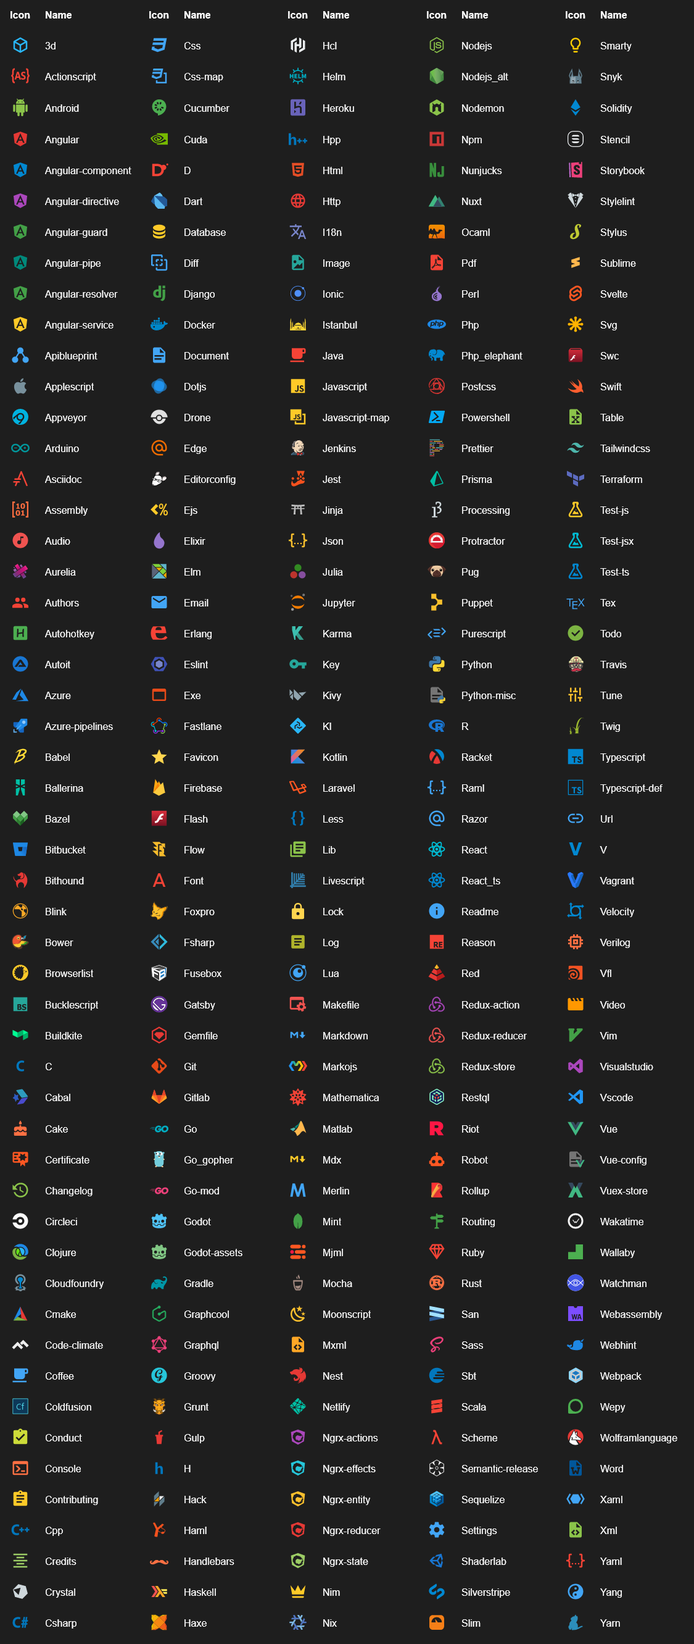
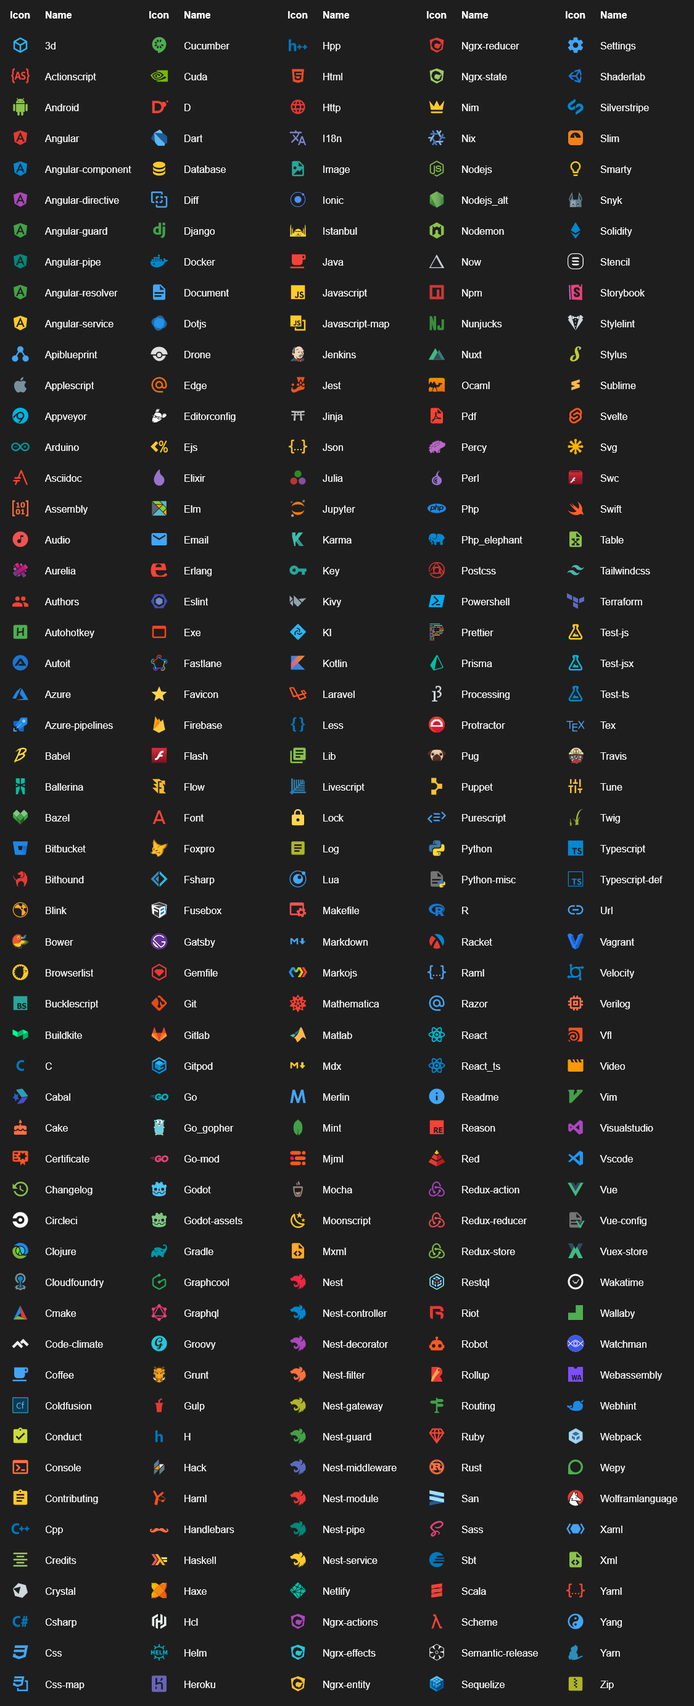
Release 3.9.0

diff --git a/src/scripts/preview/index.ts b/src/scripts/preview/index.ts
@@ -25,5 +25,5 @@ const folderThemes = filterDuplicates(folderIcons.map(theme => {
     return [].concat(...folders);
 }).reduce((a, b) => a.concat(b))).map(i => ({ iconName: i, label: i.replace('folder-', '') }));
 
-generatePreview('fileIcons', basicFileIcons, 5, ['powerpoint', 'virtual']);
-generatePreview('folderIcons', folderThemes, 5, ['folder', 'folder-meta', 'folder-wakatime']);
+generatePreview('fileIcons', basicFileIcons, 5, ['powerpoint', 'virtual', 'todo', 'word']);
+generatePreview('folderIcons', folderThemes, 5, ['']);

diff --git a/README.md b/README.md
@@ -113,23 +113,17 @@ Press `Ctrl-Shift-P` to open the command palette and type `Material Icons`.
 
 <img src="https://raw.githubusercontent.com/PKief/vscode-material-icon-theme/master/images/commandPalette.png" alt="commands" width="80%">
 
-- **Activate Icon Theme**: Activate the icon theme.
-
-- **Change Folder Color**: Change the color of the folder icons.
-
-- **Change Folder Theme**: Change the design of the folder icons.
-
-- **Change Opacity**: Change the opacity of the icons.
-
-- **Change Saturation**: Change the saturation value of the icons.
-
-- **Configure Icon Packs**: Select an icon pack that enables additional icons (e.g. for Angular, React, Ngrx).
-
-- **Hide Folder Arrows**: Hides the arrows next to the folder icons.
-
-- **Restore Default Configuration**: Reset the default configurations of the icon theme.
-
-- **Toggle Grayscale**: Sets the saturation of the icons to zero, so that they are grayscale.
+| Command                             | Description                                                                             |
+| ----------------------------------- | --------------------------------------------------------------------------------------- |
+| **Activate Icon Theme**             | Activate the icon theme.                                                                |
+| **Change Folder Color**             | Change the color of the folder icons.                                                   |
+| **Change Folder Theme**             | Change the design of the folder icons.                                                  |
+| **Change Opacity**                  | Change the opacity of the icons.                                                        |
+| **Change Saturation**               | Change the saturation value of the icons.                                               |
+| **Configure Icon Packs**            | Select an icon pack that enables additional icons (e.g. for Angular, React, Ngrx).      |
+| **Hide Folder Arrows**              | Hides the arrows next to the folder icons.                                              |
+| **Restore Default Configuration**   | Reset the default configurations of the icon theme.                                     |
+| **Toggle Grayscale**                | Sets the saturation of the icons to zero, so that they are grayscale.                   |
 
 ## Icon sources
 
@@ -139,7 +133,7 @@ Press `Ctrl-Shift-P` to open the command palette and type `Material Icons`.
 ## Contributors
 
 [//]: #contributors (start)
-<a href="https://github.com/PKief" title="PKief"><img src="https://avatars2.githubusercontent.com/u/12248527?v=4" width="40px" height="40px" alt="PKief"/></a>&nbsp;<a href="https://github.com/AdrieanKhisbe" title="AdrieanKhisbe"><img src="https://avatars1.githubusercontent.com/u/2601132?v=4" width="40px" height="40px" alt="AdrieanKhisbe"/></a>&nbsp;<a href="https://github.com/dudeofawesome" title="dudeofawesome"><img src="https://avatars0.githubusercontent.com/u/1683595?v=4" width="40px" height="40px" alt="dudeofawesome"/></a>&nbsp;<a href="https://github.com/wopian" title="wopian"><img src="https://avatars0.githubusercontent.com/u/3440094?v=4" width="40px" height="40px" alt="wopian"/></a>&nbsp;<a href="https://github.com/Bakosa666" title="Bakosa666"><img src="https://avatars3.githubusercontent.com/u/38684615?v=4" width="40px" height="40px" alt="Bakosa666"/></a>&nbsp;<a href="https://github.com/chrsmutti" title="chrsmutti"><img src="https://avatars1.githubusercontent.com/u/34144667?v=4" width="40px" height="40px" alt="chrsmutti"/></a>&nbsp;<a href="https://github.com/diego3g" title="diego3g"><img src="https://avatars2.githubusercontent.com/u/2254731?v=4" width="40px" height="40px" alt="diego3g"/></a>&nbsp;<a href="https://github.com/felipe-fg" title="felipe-fg"><img src="https://avatars2.githubusercontent.com/u/32036831?v=4" width="40px" height="40px" alt="felipe-fg"/></a>&nbsp;<a href="https://github.com/omento" title="omento"><img src="https://avatars3.githubusercontent.com/u/14795448?v=4" width="40px" height="40px" alt="omento"/></a>&nbsp;<a href="https://github.com/jBugman" title="jBugman"><img src="https://avatars1.githubusercontent.com/u/891785?v=4" width="40px" height="40px" alt="jBugman"/></a>&nbsp;<a href="https://github.com/iFaxity" title="iFaxity"><img src="https://avatars3.githubusercontent.com/u/9090703?v=4" width="40px" height="40px" alt="iFaxity"/></a>&nbsp;<a href="https://github.com/melMass" title="melMass"><img src="https://avatars3.githubusercontent.com/u/7041726?v=4" width="40px" height="40px" alt="melMass"/></a>&nbsp;<a href="https://github.com/Mrgove10" title="Mrgove10"><img src="https://avatars0.githubusercontent.com/u/25491408?v=4" width="40px" height="40px" alt="Mrgove10"/></a>&nbsp;<a href="https://github.com/cezarsa" title="cezarsa"><img src="https://avatars1.githubusercontent.com/u/11041?v=4" width="40px" height="40px" alt="cezarsa"/></a>&nbsp;<a href="https://github.com/KristophUK" title="KristophUK"><img src="https://avatars2.githubusercontent.com/u/6653181?v=4" width="40px" height="40px" alt="KristophUK"/></a>&nbsp;<a href="https://github.com/jediyozh" title="jediyozh"><img src="https://avatars2.githubusercontent.com/u/31045769?v=4" width="40px" height="40px" alt="jediyozh"/></a>&nbsp;<a href="https://github.com/fahmiirsyadk" title="fahmiirsyadk"><img src="https://avatars0.githubusercontent.com/u/17546686?v=4" width="40px" height="40px" alt="fahmiirsyadk"/></a>&nbsp;<a href="https://github.com/iDaN5x" title="iDaN5x"><img src="https://avatars3.githubusercontent.com/u/3427523?v=4" width="40px" height="40px" alt="iDaN5x"/></a>&nbsp;<a href="https://github.com/jtiala" title="jtiala"><img src="https://avatars2.githubusercontent.com/u/1576782?v=4" width="40px" height="40px" alt="jtiala"/></a>&nbsp;<a href="https://github.com/mvochoa" title="mvochoa"><img src="https://avatars2.githubusercontent.com/u/7919838?v=4" width="40px" height="40px" alt="mvochoa"/></a>&nbsp;<a href="https://github.com/martin-sweeny" title="martin-sweeny"><img src="https://avatars1.githubusercontent.com/u/3329959?v=4" width="40px" height="40px" alt="martin-sweeny"/></a>&nbsp;<a href="https://github.com/teototaro" title="teototaro"><img src="https://avatars3.githubusercontent.com/u/6552833?v=4" width="40px" height="40px" alt="teototaro"/></a>&nbsp;<a href="https://github.com/niksudan" title="niksudan"><img src="https://avatars1.githubusercontent.com/u/6004491?v=4" width="40px" height="40px" alt="niksudan"/></a>&nbsp;<a href="https://github.com/yuric18" title="yuric18"><img src="https://avatars3.githubusercontent.com/u/18277197?v=4" width="40px" height="40px" alt="yuric18"/></a>&nbsp;<a href="https://github.com/denisbalyko" title="denisbalyko"><img src="https://avatars0.githubusercontent.com/u/638190?v=4" width="40px" height="40px" alt="denisbalyko"/></a>&nbsp;<a href="https://github.com/dotiful" title="dotiful"><img src="https://avatars1.githubusercontent.com/u/25269527?v=4" width="40px" height="40px" alt="dotiful"/></a>&nbsp;<a href="https://github.com/ycrepeau" title="ycrepeau"><img src="https://avatars2.githubusercontent.com/u/6821466?v=4" width="40px" height="40px" alt="ycrepeau"/></a>&nbsp;<a href="https://github.com/aashutoshrathi" title="aashutoshrathi"><img src="https://avatars2.githubusercontent.com/u/21199234?v=4" width="40px" height="40px" alt="aashutoshrathi"/></a>&nbsp;<a href="https://github.com/dabrowski-adam" title="dabrowski-adam"><img src="https://avatars0.githubusercontent.com/u/6993966?v=4" width="40px" height="40px" alt="dabrowski-adam"/></a>&nbsp;<a href="https://github.com/alefesouza" title="alefesouza"><img src="https://avatars2.githubusercontent.com/u/1693223?v=4" width="40px" height="40px" alt="alefesouza"/></a>&nbsp;<a href="https://github.com/baraalex" title="baraalex"><img src="https://avatars2.githubusercontent.com/u/6618800?v=4" width="40px" height="40px" alt="baraalex"/></a>&nbsp;<a href="https://github.com/AlexaraWu" title="AlexaraWu"><img src="https://avatars0.githubusercontent.com/u/15205102?v=4" width="40px" height="40px" alt="AlexaraWu"/></a>&nbsp;<a href="https://github.com/tothandras" title="tothandras"><img src="https://avatars0.githubusercontent.com/u/4157749?v=4" width="40px" height="40px" alt="tothandras"/></a>&nbsp;<a href="https://github.com/arpadbarta" title="arpadbarta"><img src="https://avatars3.githubusercontent.com/u/6329203?v=4" width="40px" height="40px" alt="arpadbarta"/></a>&nbsp;<a href="https://github.com/frederick036" title="frederick036"><img src="https://avatars2.githubusercontent.com/u/1129770?v=4" width="40px" height="40px" alt="frederick036"/></a>&nbsp;<a href="https://github.com/bernardop" title="bernardop"><img src="https://avatars1.githubusercontent.com/u/28455?v=4" width="40px" height="40px" alt="bernardop"/></a>&nbsp;<a href="https://github.com/bcanseco" title="bcanseco"><img src="https://avatars3.githubusercontent.com/u/18430599?v=4" width="40px" height="40px" alt="bcanseco"/></a>&nbsp;<a href="https://github.com/bradlc" title="bradlc"><img src="https://avatars0.githubusercontent.com/u/2615508?v=4" width="40px" height="40px" alt="bradlc"/></a>&nbsp;<a href="https://github.com/brennongs" title="brennongs"><img src="https://avatars3.githubusercontent.com/u/24623425?v=4" width="40px" height="40px" alt="brennongs"/></a>&nbsp;<a href="https://github.com/Logerfo" title="Logerfo"><img src="https://avatars2.githubusercontent.com/u/19306384?v=4" width="40px" height="40px" alt="Logerfo"/></a>&nbsp;<a href="https://github.com/TheCloudSaver" title="TheCloudSaver"><img src="https://avatars3.githubusercontent.com/u/39653530?v=4" width="40px" height="40px" alt="TheCloudSaver"/></a>&nbsp;<a href="https://github.com/danielbankhead" title="danielbankhead"><img src="https://avatars3.githubusercontent.com/u/10792787?v=4" width="40px" height="40px" alt="danielbankhead"/></a>&nbsp;<a href="https://github.com/oodavid" title="oodavid"><img src="https://avatars3.githubusercontent.com/u/46879?v=4" width="40px" height="40px" alt="oodavid"/></a>&nbsp;<a href="https://github.com/erikphansen" title="erikphansen"><img src="https://avatars1.githubusercontent.com/u/20728956?v=4" width="40px" height="40px" alt="erikphansen"/></a>&nbsp;<a href="https://github.com/etiennetalbot" title="etiennetalbot"><img src="https://avatars3.githubusercontent.com/u/2954511?v=4" width="40px" height="40px" alt="etiennetalbot"/></a>&nbsp;<a href="https://github.com/ExE-Boss" title="ExE-Boss"><img src="https://avatars0.githubusercontent.com/u/3889017?v=4" width="40px" height="40px" alt="ExE-Boss"/></a>&nbsp;<a href="https://github.com/justalemon" title="justalemon"><img src="https://avatars1.githubusercontent.com/u/11861253?v=4" width="40px" height="40px" alt="justalemon"/></a>&nbsp;<a href="https://github.com/JakubKoralewski" title="JakubKoralewski"><img src="https://avatars0.githubusercontent.com/u/43069023?v=4" width="40px" height="40px" alt="JakubKoralewski"/></a>&nbsp;<a href="https://github.com/wersimmon" title="wersimmon"><img src="https://avatars1.githubusercontent.com/u/185822?v=4" width="40px" height="40px" alt="wersimmon"/></a>&nbsp;<a href="https://github.com/JotaroS" title="JotaroS"><img src="https://avatars2.githubusercontent.com/u/9479730?v=4" width="40px" height="40px" alt="JotaroS"/></a>&nbsp;<a href="https://github.com/RunningCoderLee" title="RunningCoderLee"><img src="https://avatars3.githubusercontent.com/u/13218863?v=4" width="40px" height="40px" alt="RunningCoderLee"/></a>&nbsp;<a href="https://github.com/Krzysztof-Cieslak" title="Krzysztof-Cieslak"><img src="https://avatars1.githubusercontent.com/u/5427083?v=4" width="40px" height="40px" alt="Krzysztof-Cieslak"/></a>&nbsp;<a href="https://github.com/kkemple" title="kkemple"><img src="https://avatars3.githubusercontent.com/u/3629876?v=4" width="40px" height="40px" alt="kkemple"/></a>&nbsp;<a href="https://github.com/leohxj" title="leohxj"><img src="https://avatars3.githubusercontent.com/u/1506900?v=4" width="40px" height="40px" alt="leohxj"/></a>&nbsp;<a href="https://github.com/lffg" title="lffg"><img src="https://avatars1.githubusercontent.com/u/23662020?v=4" width="40px" height="40px" alt="lffg"/></a>&nbsp;<a href="https://github.com/LukasPolak" title="LukasPolak"><img src="https://avatars3.githubusercontent.com/u/17145302?v=4" width="40px" height="40px" alt="LukasPolak"/></a>&nbsp;<a href="https://github.com/mjbvz" title="mjbvz"><img src="https://avatars2.githubusercontent.com/u/12821956?v=4" width="40px" height="40px" alt="mjbvz"/></a>&nbsp;<a href="https://github.com/MeirionHughes" title="MeirionHughes"><img src="https://avatars2.githubusercontent.com/u/3584509?v=4" width="40px" height="40px" alt="MeirionHughes"/></a>&nbsp;<a href="https://github.com/melkarm" title="melkarm"><img src="https://avatars2.githubusercontent.com/u/32730892?v=4" width="40px" height="40px" alt="melkarm"/></a>&nbsp;<a href="https://github.com/epitaphmike" title="epitaphmike"><img src="https://avatars1.githubusercontent.com/u/677832?v=4" width="40px" height="40px" alt="epitaphmike"/></a>&nbsp;<a href="https://github.com/olehreznichenko" title="olehreznichenko"><img src="https://avatars0.githubusercontent.com/u/11960153?v=4" width="40px" height="40px" alt="olehreznichenko"/></a>&nbsp;<a href="https://github.com/TheDutchCoder" title="TheDutchCoder"><img src="https://avatars2.githubusercontent.com/u/1668207?v=4" width="40px" height="40px" alt="TheDutchCoder"/></a>&nbsp;<a href="https://github.com/rhysforyou" title="rhysforyou"><img src="https://avatars0.githubusercontent.com/u/320910?v=4" width="40px" height="40px" alt="rhysforyou"/></a>&nbsp;<a href="https://github.com/rfgamaral" title="rfgamaral"><img src="https://avatars1.githubusercontent.com/u/96476?v=4" width="40px" height="40px" alt="rfgamaral"/></a>&nbsp;<a href="https://github.com/kukiric" title="kukiric"><img src="https://avatars2.githubusercontent.com/u/6194377?v=4" width="40px" height="40px" alt="kukiric"/></a>&nbsp;<a href="https://github.com/richardmillen94" title="richardmillen94"><img src="https://avatars2.githubusercontent.com/u/22445885?v=4" width="40px" height="40px" alt="richardmillen94"/></a>&nbsp;<a href="https://github.com/richiksc" title="richiksc"><img src="https://avatars1.githubusercontent.com/u/8939680?v=4" width="40px" height="40px" alt="richiksc"/></a>&nbsp;<a href="https://github.com/Faultless" title="Faultless"><img src="https://avatars1.githubusercontent.com/u/7265811?v=4" width="40px" height="40px" alt="Faultless"/></a>&nbsp;<a href="https://github.com/sbekrin" title="sbekrin"><img src="https://avatars0.githubusercontent.com/u/9248479?v=4" width="40px" height="40px" alt="sbekrin"/></a>&nbsp;<a href="https://github.com/leggsimon" title="leggsimon"><img src="https://avatars2.githubusercontent.com/u/11544418?v=4" width="40px" height="40px" alt="leggsimon"/></a>&nbsp;<a href="https://github.com/ffrinds" title="ffrinds"><img src="https://avatars3.githubusercontent.com/u/26288489?v=4" width="40px" height="40px" alt="ffrinds"/></a>&nbsp;<a href="https://github.com/ThomasGeek" title="ThomasGeek"><img src="https://avatars1.githubusercontent.com/u/10091122?v=4" width="40px" height="40px" alt="ThomasGeek"/></a>&nbsp;<a href="https://github.com/timsneath" title="timsneath"><img src="https://avatars3.githubusercontent.com/u/2319867?v=4" width="40px" height="40px" alt="timsneath"/></a>&nbsp;<a href="https://github.com/titouancreach" title="titouancreach"><img src="https://avatars1.githubusercontent.com/u/3995719?v=4" width="40px" height="40px" alt="titouancreach"/></a>&nbsp;<a href="https://github.com/Happycoil" title="Happycoil"><img src="https://avatars2.githubusercontent.com/u/12999248?v=4" width="40px" height="40px" alt="Happycoil"/></a>&nbsp;<a href="https://github.com/william-lohan" title="william-lohan"><img src="https://avatars3.githubusercontent.com/u/8146733?v=4" width="40px" height="40px" alt="william-lohan"/></a>&nbsp;<a href="https://github.com/dmay" title="dmay"><img src="https://avatars0.githubusercontent.com/u/1068398?v=4" width="40px" height="40px" alt="dmay"/></a>&nbsp;<a href="https://github.com/eyal0803" title="eyal0803"><img src="https://avatars1.githubusercontent.com/u/5116133?v=4" width="40px" height="40px" alt="eyal0803"/></a>&nbsp;<a href="https://github.com/mintapp" title="mintapp"><img src="https://avatars0.githubusercontent.com/u/37894041?v=4" width="40px" height="40px" alt="mintapp"/></a>&nbsp;<a href="https://github.com/natemoo-re" title="natemoo-re"><img src="https://avatars0.githubusercontent.com/u/7118177?v=4" width="40px" height="40px" alt="natemoo-re"/></a>&nbsp;<a href="https://github.com/suazithustra" title="suazithustra"><img src="https://avatars3.githubusercontent.com/u/33040041?v=4" width="40px" height="40px" alt="suazithustra"/></a>&nbsp;<a href="https://github.com/khrystuk" title="khrystuk"><img src="https://avatars2.githubusercontent.com/u/22624868?v=4" width="40px" height="40px" alt="khrystuk"/></a>
+<a href="https://github.com/PKief" title="PKief"><img src="https://avatars2.githubusercontent.com/u/12248527?v=4" width="40px" height="40px" alt="PKief"/></a>&nbsp;<a href="https://github.com/AdrieanKhisbe" title="AdrieanKhisbe"><img src="https://avatars1.githubusercontent.com/u/2601132?v=4" width="40px" height="40px" alt="AdrieanKhisbe"/></a>&nbsp;<a href="https://github.com/dudeofawesome" title="dudeofawesome"><img src="https://avatars0.githubusercontent.com/u/1683595?v=4" width="40px" height="40px" alt="dudeofawesome"/></a>&nbsp;<a href="https://github.com/wopian" title="wopian"><img src="https://avatars0.githubusercontent.com/u/3440094?v=4" width="40px" height="40px" alt="wopian"/></a>&nbsp;<a href="https://github.com/Bakosa666" title="Bakosa666"><img src="https://avatars3.githubusercontent.com/u/38684615?v=4" width="40px" height="40px" alt="Bakosa666"/></a>&nbsp;<a href="https://github.com/LukasPolak" title="LukasPolak"><img src="https://avatars3.githubusercontent.com/u/17145302?v=4" width="40px" height="40px" alt="LukasPolak"/></a>&nbsp;<a href="https://github.com/lffg" title="lffg"><img src="https://avatars1.githubusercontent.com/u/23662020?v=4" width="40px" height="40px" alt="lffg"/></a>&nbsp;<a href="https://github.com/chrsmutti" title="chrsmutti"><img src="https://avatars1.githubusercontent.com/u/34144667?v=4" width="40px" height="40px" alt="chrsmutti"/></a>&nbsp;<a href="https://github.com/diego3g" title="diego3g"><img src="https://avatars2.githubusercontent.com/u/2254731?v=4" width="40px" height="40px" alt="diego3g"/></a>&nbsp;<a href="https://github.com/felipe-fg" title="felipe-fg"><img src="https://avatars2.githubusercontent.com/u/32036831?v=4" width="40px" height="40px" alt="felipe-fg"/></a>&nbsp;<a href="https://github.com/omento" title="omento"><img src="https://avatars3.githubusercontent.com/u/14795448?v=4" width="40px" height="40px" alt="omento"/></a>&nbsp;<a href="https://github.com/jBugman" title="jBugman"><img src="https://avatars1.githubusercontent.com/u/891785?v=4" width="40px" height="40px" alt="jBugman"/></a>&nbsp;<a href="https://github.com/iFaxity" title="iFaxity"><img src="https://avatars3.githubusercontent.com/u/9090703?v=4" width="40px" height="40px" alt="iFaxity"/></a>&nbsp;<a href="https://github.com/melMass" title="melMass"><img src="https://avatars3.githubusercontent.com/u/7041726?v=4" width="40px" height="40px" alt="melMass"/></a>&nbsp;<a href="https://github.com/Mrgove10" title="Mrgove10"><img src="https://avatars0.githubusercontent.com/u/25491408?v=4" width="40px" height="40px" alt="Mrgove10"/></a>&nbsp;<a href="https://github.com/cezarsa" title="cezarsa"><img src="https://avatars1.githubusercontent.com/u/11041?v=4" width="40px" height="40px" alt="cezarsa"/></a>&nbsp;<a href="https://github.com/KristophUK" title="KristophUK"><img src="https://avatars2.githubusercontent.com/u/6653181?v=4" width="40px" height="40px" alt="KristophUK"/></a>&nbsp;<a href="https://github.com/jediyozh" title="jediyozh"><img src="https://avatars2.githubusercontent.com/u/31045769?v=4" width="40px" height="40px" alt="jediyozh"/></a>&nbsp;<a href="https://github.com/fahmiirsyadk" title="fahmiirsyadk"><img src="https://avatars0.githubusercontent.com/u/17546686?v=4" width="40px" height="40px" alt="fahmiirsyadk"/></a>&nbsp;<a href="https://github.com/iDaN5x" title="iDaN5x"><img src="https://avatars3.githubusercontent.com/u/3427523?v=4" width="40px" height="40px" alt="iDaN5x"/></a>&nbsp;<a href="https://github.com/jtiala" title="jtiala"><img src="https://avatars2.githubusercontent.com/u/1576782?v=4" width="40px" height="40px" alt="jtiala"/></a>&nbsp;<a href="https://github.com/mvochoa" title="mvochoa"><img src="https://avatars2.githubusercontent.com/u/7919838?v=4" width="40px" height="40px" alt="mvochoa"/></a>&nbsp;<a href="https://github.com/martin-sweeny" title="martin-sweeny"><img src="https://avatars1.githubusercontent.com/u/3329959?v=4" width="40px" height="40px" alt="martin-sweeny"/></a>&nbsp;<a href="https://github.com/teototaro" title="teototaro"><img src="https://avatars3.githubusercontent.com/u/6552833?v=4" width="40px" height="40px" alt="teototaro"/></a>&nbsp;<a href="https://github.com/niksudan" title="niksudan"><img src="https://avatars1.githubusercontent.com/u/6004491?v=4" width="40px" height="40px" alt="niksudan"/></a>&nbsp;<a href="https://github.com/yuric18" title="yuric18"><img src="https://avatars3.githubusercontent.com/u/18277197?v=4" width="40px" height="40px" alt="yuric18"/></a>&nbsp;<a href="https://github.com/denisbalyko" title="denisbalyko"><img src="https://avatars0.githubusercontent.com/u/638190?v=4" width="40px" height="40px" alt="denisbalyko"/></a>&nbsp;<a href="https://github.com/dotiful" title="dotiful"><img src="https://avatars1.githubusercontent.com/u/25269527?v=4" width="40px" height="40px" alt="dotiful"/></a>&nbsp;<a href="https://github.com/ycrepeau" title="ycrepeau"><img src="https://avatars2.githubusercontent.com/u/6821466?v=4" width="40px" height="40px" alt="ycrepeau"/></a>&nbsp;<a href="https://github.com/aashutoshrathi" title="aashutoshrathi"><img src="https://avatars2.githubusercontent.com/u/21199234?v=4" width="40px" height="40px" alt="aashutoshrathi"/></a>&nbsp;<a href="https://github.com/dabrowski-adam" title="dabrowski-adam"><img src="https://avatars0.githubusercontent.com/u/6993966?v=4" width="40px" height="40px" alt="dabrowski-adam"/></a>&nbsp;<a href="https://github.com/alefesouza" title="alefesouza"><img src="https://avatars2.githubusercontent.com/u/1693223?v=4" width="40px" height="40px" alt="alefesouza"/></a>&nbsp;<a href="https://github.com/baraalex" title="baraalex"><img src="https://avatars2.githubusercontent.com/u/6618800?v=4" width="40px" height="40px" alt="baraalex"/></a>&nbsp;<a href="https://github.com/AlexaraWu" title="AlexaraWu"><img src="https://avatars0.githubusercontent.com/u/15205102?v=4" width="40px" height="40px" alt="AlexaraWu"/></a>&nbsp;<a href="https://github.com/tothandras" title="tothandras"><img src="https://avatars0.githubusercontent.com/u/4157749?v=4" width="40px" height="40px" alt="tothandras"/></a>&nbsp;<a href="https://github.com/arpadbarta" title="arpadbarta"><img src="https://avatars3.githubusercontent.com/u/6329203?v=4" width="40px" height="40px" alt="arpadbarta"/></a>&nbsp;<a href="https://github.com/frederick036" title="frederick036"><img src="https://avatars2.githubusercontent.com/u/1129770?v=4" width="40px" height="40px" alt="frederick036"/></a>&nbsp;<a href="https://github.com/bernardop" title="bernardop"><img src="https://avatars1.githubusercontent.com/u/28455?v=4" width="40px" height="40px" alt="bernardop"/></a>&nbsp;<a href="https://github.com/bcanseco" title="bcanseco"><img src="https://avatars3.githubusercontent.com/u/18430599?v=4" width="40px" height="40px" alt="bcanseco"/></a>&nbsp;<a href="https://github.com/bradlc" title="bradlc"><img src="https://avatars0.githubusercontent.com/u/2615508?v=4" width="40px" height="40px" alt="bradlc"/></a>&nbsp;<a href="https://github.com/brennongs" title="brennongs"><img src="https://avatars3.githubusercontent.com/u/24623425?v=4" width="40px" height="40px" alt="brennongs"/></a>&nbsp;<a href="https://github.com/Logerfo" title="Logerfo"><img src="https://avatars2.githubusercontent.com/u/19306384?v=4" width="40px" height="40px" alt="Logerfo"/></a>&nbsp;<a href="https://github.com/TheCloudSaver" title="TheCloudSaver"><img src="https://avatars3.githubusercontent.com/u/39653530?v=4" width="40px" height="40px" alt="TheCloudSaver"/></a>&nbsp;<a href="https://github.com/danielbankhead" title="danielbankhead"><img src="https://avatars3.githubusercontent.com/u/10792787?v=4" width="40px" height="40px" alt="danielbankhead"/></a>&nbsp;<a href="https://github.com/oodavid" title="oodavid"><img src="https://avatars3.githubusercontent.com/u/46879?v=4" width="40px" height="40px" alt="oodavid"/></a>&nbsp;<a href="https://github.com/erikphansen" title="erikphansen"><img src="https://avatars1.githubusercontent.com/u/20728956?v=4" width="40px" height="40px" alt="erikphansen"/></a>&nbsp;<a href="https://github.com/EtienneBourque" title="EtienneBourque"><img src="https://avatars1.githubusercontent.com/u/50217898?v=4" width="40px" height="40px" alt="EtienneBourque"/></a>&nbsp;<a href="https://github.com/etiennetalbot" title="etiennetalbot"><img src="https://avatars3.githubusercontent.com/u/2954511?v=4" width="40px" height="40px" alt="etiennetalbot"/></a>&nbsp;<a href="https://github.com/ExE-Boss" title="ExE-Boss"><img src="https://avatars0.githubusercontent.com/u/3889017?v=4" width="40px" height="40px" alt="ExE-Boss"/></a>&nbsp;<a href="https://github.com/nibushibu" title="nibushibu"><img src="https://avatars0.githubusercontent.com/u/399949?v=4" width="40px" height="40px" alt="nibushibu"/></a>&nbsp;<a href="https://github.com/justalemon" title="justalemon"><img src="https://avatars1.githubusercontent.com/u/11861253?v=4" width="40px" height="40px" alt="justalemon"/></a>&nbsp;<a href="https://github.com/JakubKoralewski" title="JakubKoralewski"><img src="https://avatars0.githubusercontent.com/u/43069023?v=4" width="40px" height="40px" alt="JakubKoralewski"/></a>&nbsp;<a href="https://github.com/jerriclynsjohn" title="jerriclynsjohn"><img src="https://avatars3.githubusercontent.com/u/3236669?v=4" width="40px" height="40px" alt="jerriclynsjohn"/></a>&nbsp;<a href="https://github.com/wersimmon" title="wersimmon"><img src="https://avatars1.githubusercontent.com/u/185822?v=4" width="40px" height="40px" alt="wersimmon"/></a>&nbsp;<a href="https://github.com/JotaroS" title="JotaroS"><img src="https://avatars2.githubusercontent.com/u/9479730?v=4" width="40px" height="40px" alt="JotaroS"/></a>&nbsp;<a href="https://github.com/RunningCoderLee" title="RunningCoderLee"><img src="https://avatars3.githubusercontent.com/u/13218863?v=4" width="40px" height="40px" alt="RunningCoderLee"/></a>&nbsp;<a href="https://github.com/Krzysztof-Cieslak" title="Krzysztof-Cieslak"><img src="https://avatars1.githubusercontent.com/u/5427083?v=4" width="40px" height="40px" alt="Krzysztof-Cieslak"/></a>&nbsp;<a href="https://github.com/kkemple" title="kkemple"><img src="https://avatars3.githubusercontent.com/u/3629876?v=4" width="40px" height="40px" alt="kkemple"/></a>&nbsp;<a href="https://github.com/leohxj" title="leohxj"><img src="https://avatars3.githubusercontent.com/u/1506900?v=4" width="40px" height="40px" alt="leohxj"/></a>&nbsp;<a href="https://github.com/mjbvz" title="mjbvz"><img src="https://avatars2.githubusercontent.com/u/12821956?v=4" width="40px" height="40px" alt="mjbvz"/></a>&nbsp;<a href="https://github.com/MeirionHughes" title="MeirionHughes"><img src="https://avatars2.githubusercontent.com/u/3584509?v=4" width="40px" height="40px" alt="MeirionHughes"/></a>&nbsp;<a href="https://github.com/melkarm" title="melkarm"><img src="https://avatars2.githubusercontent.com/u/32730892?v=4" width="40px" height="40px" alt="melkarm"/></a>&nbsp;<a href="https://github.com/epitaphmike" title="epitaphmike"><img src="https://avatars1.githubusercontent.com/u/677832?v=4" width="40px" height="40px" alt="epitaphmike"/></a>&nbsp;<a href="https://github.com/olehreznichenko" title="olehreznichenko"><img src="https://avatars0.githubusercontent.com/u/11960153?v=4" width="40px" height="40px" alt="olehreznichenko"/></a>&nbsp;<a href="https://github.com/TheDutchCoder" title="TheDutchCoder"><img src="https://avatars2.githubusercontent.com/u/1668207?v=4" width="40px" height="40px" alt="TheDutchCoder"/></a>&nbsp;<a href="https://github.com/RenanMsV" title="RenanMsV"><img src="https://avatars3.githubusercontent.com/u/21311691?v=4" width="40px" height="40px" alt="RenanMsV"/></a>&nbsp;<a href="https://github.com/rhysforyou" title="rhysforyou"><img src="https://avatars0.githubusercontent.com/u/320910?v=4" width="40px" height="40px" alt="rhysforyou"/></a>&nbsp;<a href="https://github.com/rfgamaral" title="rfgamaral"><img src="https://avatars1.githubusercontent.com/u/96476?v=4" width="40px" height="40px" alt="rfgamaral"/></a>&nbsp;<a href="https://github.com/kukiric" title="kukiric"><img src="https://avatars2.githubusercontent.com/u/6194377?v=4" width="40px" height="40px" alt="kukiric"/></a>&nbsp;<a href="https://github.com/richardmillen94" title="richardmillen94"><img src="https://avatars2.githubusercontent.com/u/22445885?v=4" width="40px" height="40px" alt="richardmillen94"/></a>&nbsp;<a href="https://github.com/richiksc" title="richiksc"><img src="https://avatars1.githubusercontent.com/u/8939680?v=4" width="40px" height="40px" alt="richiksc"/></a>&nbsp;<a href="https://github.com/Faultless" title="Faultless"><img src="https://avatars1.githubusercontent.com/u/7265811?v=4" width="40px" height="40px" alt="Faultless"/></a>&nbsp;<a href="https://github.com/sbekrin" title="sbekrin"><img src="https://avatars0.githubusercontent.com/u/9248479?v=4" width="40px" height="40px" alt="sbekrin"/></a>&nbsp;<a href="https://github.com/leggsimon" title="leggsimon"><img src="https://avatars2.githubusercontent.com/u/11544418?v=4" width="40px" height="40px" alt="leggsimon"/></a>&nbsp;<a href="https://github.com/ffrinds" title="ffrinds"><img src="https://avatars3.githubusercontent.com/u/26288489?v=4" width="40px" height="40px" alt="ffrinds"/></a>&nbsp;<a href="https://github.com/ThomasGeek" title="ThomasGeek"><img src="https://avatars1.githubusercontent.com/u/10091122?v=4" width="40px" height="40px" alt="ThomasGeek"/></a>&nbsp;<a href="https://github.com/timsneath" title="timsneath"><img src="https://avatars3.githubusercontent.com/u/2319867?v=4" width="40px" height="40px" alt="timsneath"/></a>&nbsp;<a href="https://github.com/titouancreach" title="titouancreach"><img src="https://avatars1.githubusercontent.com/u/3995719?v=4" width="40px" height="40px" alt="titouancreach"/></a>&nbsp;<a href="https://github.com/Happycoil" title="Happycoil"><img src="https://avatars2.githubusercontent.com/u/12999248?v=4" width="40px" height="40px" alt="Happycoil"/></a>&nbsp;<a href="https://github.com/william-lohan" title="william-lohan"><img src="https://avatars3.githubusercontent.com/u/8146733?v=4" width="40px" height="40px" alt="william-lohan"/></a>&nbsp;<a href="https://github.com/dmay" title="dmay"><img src="https://avatars0.githubusercontent.com/u/1068398?v=4" width="40px" height="40px" alt="dmay"/></a>&nbsp;<a href="https://github.com/eyal0803" title="eyal0803"><img src="https://avatars1.githubusercontent.com/u/5116133?v=4" width="40px" height="40px" alt="eyal0803"/></a>&nbsp;<a href="https://github.com/mintapp" title="mintapp"><img src="https://avatars0.githubusercontent.com/u/37894041?v=4" width="40px" height="40px" alt="mintapp"/></a>&nbsp;<a href="https://github.com/natemoo-re" title="natemoo-re"><img src="https://avatars0.githubusercontent.com/u/7118177?v=4" width="40px" height="40px" alt="natemoo-re"/></a>&nbsp;<a href="https://github.com/suazithustra" title="suazithustra"><img src="https://avatars3.githubusercontent.com/u/33040041?v=4" width="40px" height="40px" alt="suazithustra"/></a>&nbsp;<a href="https://github.com/khrystuk" title="khrystuk"><img src="https://avatars2.githubusercontent.com/u/22624868?v=4" width="40px" height="40px" alt="khrystuk"/></a>
 
 [//]: #contributors (end)
 

diff --git a/CHANGELOG.md b/CHANGELOG.md
@@ -1,4 +1,31 @@
 # Changelog
+## 3.9.0 (2019-08-29)
+### New features
+- Nest.js icon pack ([@jerriclynsjohn](https://github.com/jerriclynsjohn) in [#501](https://github.com/PKief/vscode-material-icon-theme/pull/501))
+
+### New file icons
+- ZEIT Now ([@LukasPolak](https://github.com/LukasPolak) in [#470](https://github.com/PKief/vscode-material-icon-theme/pull/470))
+- Jenkins ([@sgwozdz](https://github.com/sgwozdz) in [#502](https://github.com/PKief/vscode-material-icon-theme/pull/502))
+- Percy ([@hacknug](https://github.com/hacknug) in [#508](https://github.com/PKief/vscode-material-icon-theme/pull/508))
+- AC3D (.ac) ([@RenanMsV](https://github.com/RenanMsV) in [#517](https://github.com/PKief/vscode-material-icon-theme/pull/517))
+- .bazelignore, .bazelrc
+- *.e2e-spec.ts, *.e2e-spec.js
+- .gitpod.yml
+- *.inl
+
+### New folder icons
+- event ([@lffg](https://github.com/lffg) in [#514](https://github.com/PKief/vscode-material-icon-theme/pull/514))
+- env ([@lffg](https://github.com/lffg) in [#515](https://github.com/PKief/vscode-material-icon-theme/pull/515))
+- .expo-shared ([@EtienneBourque](https://github.com/EtienneBourque) in [#512](https://github.com/PKief/vscode-material-icon-theme/pull/512))
+
+### Updated icons
+- Riot.js ([@nibushibu](https://github.com/nibushibu) in [#497](https://github.com/PKief/vscode-material-icon-theme/pull/497))
+
+### Other improvements
+- Adjust check scripts to be case insensitive ([issue #494](https://github.com/PKief/vscode-material-icon-theme/issues/494))
+- Remove deprecated code ([issue #520](https://github.com/PKief/vscode-material-icon-theme/issues/520))
+- Update test setup (in [2f1e5d1](https://github.com/PKief/vscode-material-icon-theme/commit/2f1e5d12a58e9e10d09ed9441aa4191c8ab9989b))
+
 ## 3.8.1 (2019-07-17)
 ### New file icons
 - MoonScript ([issue #485](https://github.com/PKief/vscode-material-icon-theme/issues/485))
@@ -25,7 +52,7 @@
 
 ## 3.8.0 (2019-05-25)
 ### New features
-- Vue.js and Vuex theme ([@Bakosa666](https://github.com/Bakosa666) in [#402](https://github.com/PKief/vscode-material-icon-theme/pull/402))
+- Vue.js and Vuex icon pack ([@Bakosa666](https://github.com/Bakosa666) in [#402](https://github.com/PKief/vscode-material-icon-theme/pull/402))
 - Hot reload for hidesExplorerArrows configuration (in [c65d9a6](https://github.com/PKief/vscode-material-icon-theme/commit/c65d9a6935eb6cc09a779fd5cf49af26948fd8df))
 
 ### New file icons
